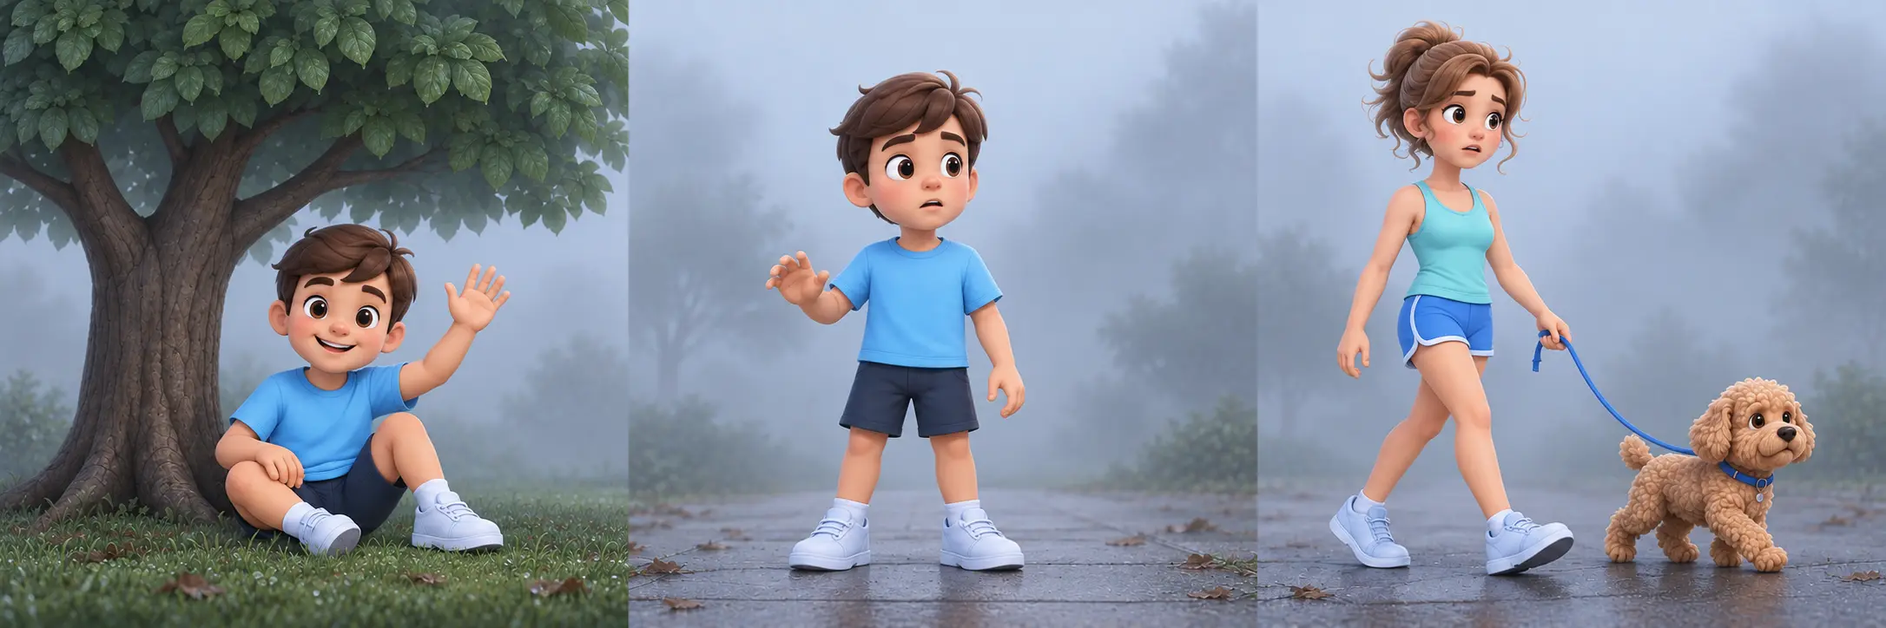
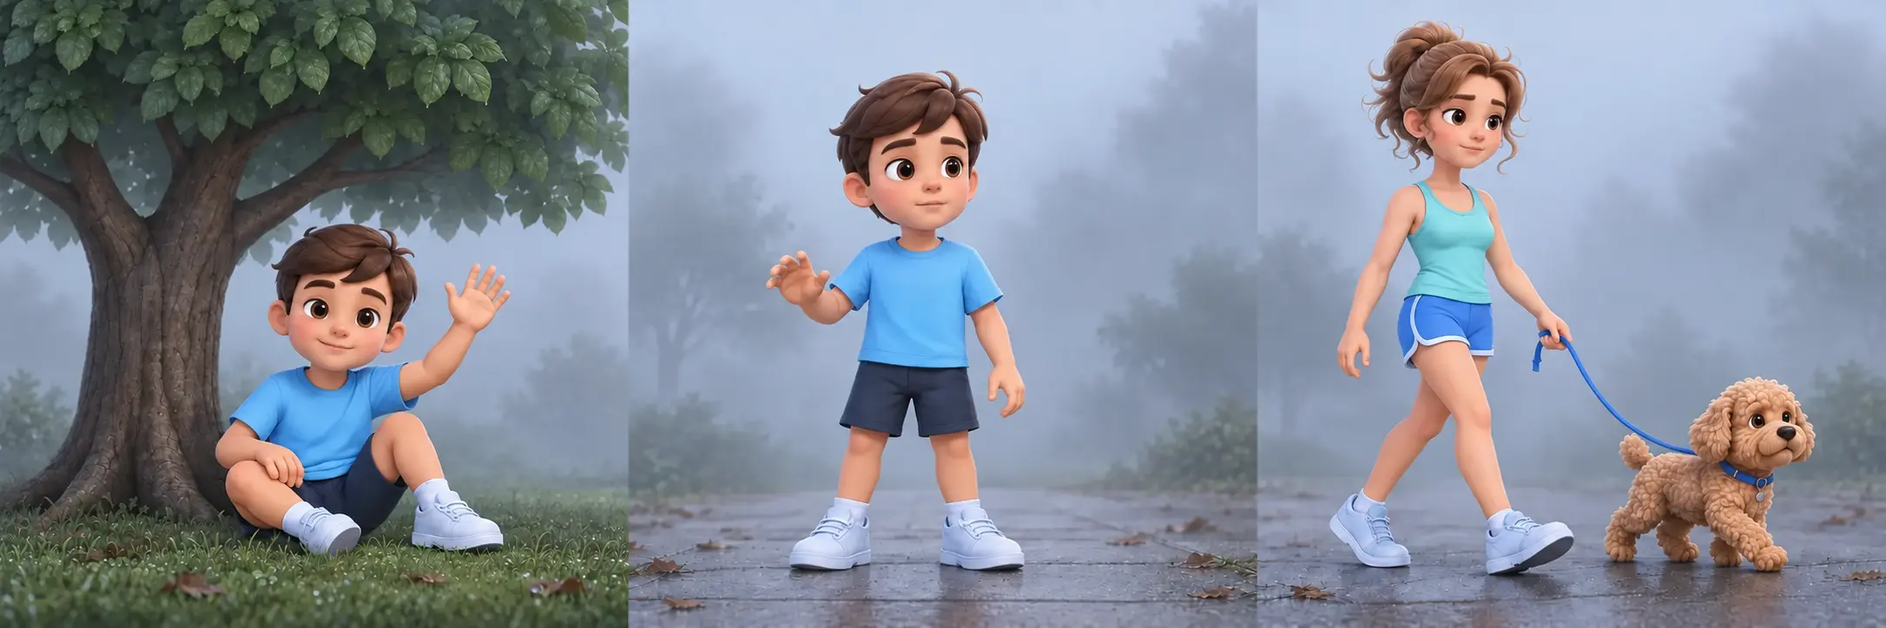
Refine calm weather scenes and Gross Meter layout
Use calm, neutral expressions for fog and cloudy weather while preserving the established people and scene proportions. Restructure the Gross Meter to match the supplied reference across desktop and phone layouts without removing its graph, forecast ranges, slider, legend or current-condition footer.

diff --git a/public/weather-fusion/dewpoint-meter.css b/public/weather-fusion/dewpoint-meter.css
@@ -1,14 +1,14 @@
 .dewpoint-gross-meter{margin:0 auto 24px;padding:14px;width:100%;max-width:100%;min-width:0;box-sizing:border-box;text-align:left;border:1px solid #58c7f16b;border-radius:26px;overflow:hidden;color:#f7fcff}
-.gross-summary{display:grid;grid-template-columns:minmax(210px,.9fr) minmax(190px,.72fr) minmax(260px,1.35fr);grid-template-areas:"intro now callout" "intro scale scale";gap:10px 22px;align-items:center;padding:10px 12px 14px;border-bottom:1px solid #55c1ec42}
-.gross-intro{grid-area:intro;align-self:stretch;padding-right:22px;border-right:1px solid #70cef069;display:flex;flex-direction:column;justify-content:center}.gross-eyebrow{margin:0;color:#fff;line-height:.95;letter-spacing:-.04em;text-align:left}.gross-eyebrow strong{display:block;font-size:clamp(31px,4vw,48px);font-weight:850}.gross-eyebrow span{display:block;margin-top:8px;font-size:clamp(17px,2vw,24px);font-weight:800;letter-spacing:-.02em;color:#68d8ff}.gross-note{font-size:13px;line-height:1.55;color:#bfe6f7;margin:18px 0 0;max-width:34ch}
-.gross-now{grid-area:now;display:flex;align-items:center;justify-content:center;gap:12px;min-width:0}.gross-drop{width:54px;height:64px;overflow:visible;flex:0 0 auto;fill:#63ddff;filter:drop-shadow(0 6px 10px #1dc6ff38)}.gross-drop path+path{fill:none;stroke:#63ddff;stroke-width:5;stroke-linecap:round}.gross-now>span{min-width:0}.gross-number{display:block;font-size:clamp(48px,6vw,72px);line-height:.9;letter-spacing:-3px;font-weight:700;color:#84e4ff;font-variant-numeric:tabular-nums}.gross-now-label{display:block;margin-top:8px;font-size:14px;line-height:1.2;font-weight:700;color:#66d8ff;white-space:nowrap}
+.gross-summary{display:grid;grid-template-columns:minmax(260px,.92fr) minmax(150px,.58fr) minmax(300px,1.28fr);grid-template-areas:"intro now callout" "intro scale scale";gap:8px 24px;align-items:center;padding:8px 12px 14px;border-bottom:1px solid #55c1ec42}
+.gross-intro{grid-area:intro;align-self:stretch;display:grid;grid-template-columns:minmax(0,1fr) 76px;gap:10px;align-items:center;padding-right:22px;border-right:1px solid #70cef069}.gross-intro-copy{min-width:0}.gross-eyebrow{margin:0;color:#fff;line-height:.95;letter-spacing:-.04em;text-align:left}.gross-eyebrow strong{display:block;font-size:clamp(31px,4vw,48px);font-weight:850}.gross-eyebrow span{display:block;margin-top:8px;font-size:clamp(17px,2vw,24px);font-weight:800;letter-spacing:-.02em;color:#68d8ff}.gross-note{font-size:13px;line-height:1.5;color:#bfe6f7;margin:18px 0 0;max-width:28ch}
+.gross-now{grid-area:now;display:flex;flex-direction:column;align-items:flex-start;justify-content:center;min-width:0}.gross-drop{width:68px;height:82px;overflow:visible;fill:#63ddff;filter:drop-shadow(0 6px 10px #1dc6ff38)}.gross-drop path+path{fill:none;stroke:#63ddff;stroke-width:5;stroke-linecap:round}.gross-number{display:block;font-size:clamp(48px,6vw,72px);line-height:.9;letter-spacing:-3px;font-weight:700;color:#84e4ff;font-variant-numeric:tabular-nums}.gross-now-label{display:block;margin-top:8px;font-size:14px;line-height:1.2;font-weight:700;color:#66d8ff;white-space:nowrap}
 .gross-callout{grid-area:callout;text-align:center;min-width:0}.gross-pill{display:inline-block;min-width:150px;font-size:15px;font-weight:800;letter-spacing:2px;padding:10px 18px;border:1px solid #a8bbff70;background:linear-gradient(145deg,#7770be52,#6b6dac3b);border-radius:999px;color:#f5f4ff;box-shadow:inset 0 1px 7px #dcd7ff21}.gross-nope,.gross-nogo{background:linear-gradient(145deg,#8c6cbc66,#6b69a94d);border-color:#c5baff80}.gross-verdict{font-weight:750;font-size:17px;line-height:1.3;color:#fff;margin:12px auto 0;max-width:34ch}
-.gross-current-scale{grid-area:scale;min-width:0;padding-top:3px}.gross-current-track{height:14px;border-radius:999px;background:linear-gradient(90deg,#12d7ac 0%,#59d59b 18%,#e5d35f 44%,#ffad58 69%,#f36d83 83%,#d653c2 100%);position:relative;box-shadow:inset 0 1px 3px #00283e66}.gross-current-track i{position:absolute;left:var(--gross-position);top:50%;width:22px;height:22px;border-radius:50%;background:#fff;transform:translate(-50%,-50%);box-shadow:0 2px 7px #001b32a8}.gross-current-labels{display:grid;grid-template-columns:repeat(4,1fr);margin-top:7px;color:#73ddff;text-align:center}.gross-current-labels span{font-size:11px;font-weight:700;line-height:1.2}.gross-current-labels b{display:block;font-size:12px;color:#82dcfb}
-.gross-explore{margin-top:12px;padding:12px 13px 10px;border:1px solid #48bbed42;border-radius:18px;background:#042e542e}.gross-toolbar{display:flex;align-items:center;justify-content:space-between;gap:12px}.gross-toolbar>span{font-size:16px;font-weight:800;color:#fff;white-space:nowrap}.gross-periods{display:grid;grid-template-columns:repeat(4,minmax(66px,1fr));padding:2px;border:1px solid #2faee44f;border-radius:12px;overflow:hidden;flex:1;max-width:650px}.gross-periods button{padding:8px 10px;min-height:36px;border:0;border-right:1px solid #2faee43c;border-radius:10px;background:transparent;color:#c0e8f8;font-size:12px;cursor:pointer;white-space:nowrap}.gross-periods button:last-child{border-right:0}.gross-periods button.selected{background:linear-gradient(180deg,#1196d37f,#0c70aa70);color:#fff;box-shadow:inset 0 1px 3px #61d9ff35}.gross-periods button:focus-visible{outline:2px solid #c7efff;outline-offset:-2px}
-.gross-coverage{font-size:10px;color:#a8d9ef;text-align:right;margin:5px 2px 9px;line-height:1.4}.gross-forecast-layout{display:grid;grid-template-columns:minmax(190px,.35fr) minmax(0,1fr);gap:15px;align-items:stretch}.gross-readout{padding:10px 14px 8px;border-right:1px solid #54bde847;display:flex;flex-direction:column;justify-content:center}.gross-selection{display:grid;grid-template-columns:auto 1fr;grid-template-rows:auto auto;column-gap:12px;text-align:left;min-height:76px}.gross-selected-value{grid-row:1/3;align-self:center;font-size:38px;letter-spacing:-1px;color:#fff;min-width:62px}.gross-selected-time{align-self:end;font-size:12px;line-height:1.45;color:#d9eff9}.gross-selected-label{font-size:12px;line-height:1.45;color:#b8e3f5}.gross-scroll-hint{font-size:11px;color:#b8dff0;text-align:left;margin:10px 0 0;padding-top:9px;border-top:1px solid #42b2e336;line-height:1.45}
+.gross-current-scale{grid-area:scale;min-width:0;padding-top:3px}.gross-current-track{height:14px;border-radius:999px;background:linear-gradient(90deg,#12d7ac 0%,#59d59b 18%,#e5d35f 44%,#ffad58 69%,#f36d83 83%,#d653c2 100%);position:relative;box-shadow:inset 0 1px 3px #00283e66}.gross-current-track::after{content:"";position:absolute;inset:0;background:linear-gradient(90deg,transparent 24.8%,#0b5e6ba0 25% 25.25%,transparent 25.4% 49.8%,#0b5e6ba0 50% 50.25%,transparent 50.4% 74.8%,#0b5e6ba0 75% 75.25%,transparent 75.4%);border-radius:inherit}.gross-current-track i{position:absolute;z-index:1;left:var(--gross-position);top:50%;width:22px;height:22px;border-radius:50%;background:#fff;transform:translate(-50%,-50%);box-shadow:0 2px 7px #001b32a8}.gross-current-labels{display:grid;grid-template-columns:repeat(4,1fr);margin-top:7px;color:#73ddff;text-align:center}.gross-current-labels span{font-size:11px;font-weight:700;line-height:1.2}.gross-current-labels b{display:block;font-size:12px;color:#82dcfb}
+.gross-explore{margin-top:12px;padding:12px 13px 10px;border:1px solid #48bbed42;border-radius:18px;background:#042e542e}.gross-toolbar{display:grid;grid-template-columns:minmax(170px,.55fr) minmax(360px,1.1fr) minmax(135px,.4fr);align-items:center;gap:12px;margin-bottom:10px}.gross-toolbar>span{font-size:16px;font-weight:800;color:#fff;white-space:nowrap}.gross-periods{display:grid;grid-template-columns:repeat(4,minmax(66px,1fr));padding:2px;border:1px solid #2faee44f;border-radius:12px;overflow:hidden}.gross-periods button{padding:8px 10px;min-height:36px;border:0;border-right:1px solid #2faee43c;border-radius:10px;background:transparent;color:#c0e8f8;font-size:12px;cursor:pointer;white-space:nowrap}.gross-periods button:last-child{border-right:0}.gross-periods button.selected{background:linear-gradient(180deg,#1196d37f,#0c70aa70);color:#fff;box-shadow:inset 0 1px 3px #61d9ff35}.gross-periods button:focus-visible{outline:2px solid #c7efff;outline-offset:-2px}
+.gross-coverage{font-size:10px;color:#a8d9ef;text-align:center;margin:0;line-height:1.4}.gross-forecast-layout{display:grid;grid-template-columns:minmax(220px,.34fr) minmax(0,1fr);gap:15px;align-items:stretch}.gross-readout{padding:10px 14px 8px;border-right:1px solid #54bde847;display:flex;flex-direction:column;justify-content:center}.gross-selection{display:flex;flex-direction:column;text-align:left;min-height:76px}.gross-selected-value{font-size:38px;line-height:1;letter-spacing:-1px;color:#fff;min-width:62px}.gross-selected-time{margin-top:6px;font-size:12px;line-height:1.45;font-weight:700;color:#d9eff9}.gross-selected-label{font-size:12px;line-height:1.45;color:#b8e3f5}.gross-scroll-hint{font-size:11px;color:#b8dff0;text-align:left;margin:10px 0 0;padding-top:9px;border-top:1px solid #42b2e336;line-height:1.45}
 .gross-scroll{width:100%;max-width:100%;overflow:hidden;border:1px solid #46b7e742;border-radius:15px;background:#082f50d9;min-width:0}.gross-chart{display:block;width:100%;max-width:100%;max-height:none;margin:0;touch-action:pan-y}.gross-scroll:focus-visible{outline:2px solid #c7efff}.gross-band{opacity:.30}.band-dry{fill:#449bcc}.band-nice{fill:#33b99b}.band-humid{fill:#e5c557}.band-gross{fill:#f49b46}.band-nogo{fill:#de80a0}.band-nope{fill:#f35298}.gross-threshold{stroke:#dcecff6b;stroke-width:1;stroke-dasharray:4 5}.gross-day-line{stroke:#c8e4ff20;stroke-width:1}.gross-line-shadow{fill:none;stroke:#4ca8e8;stroke-opacity:.35;stroke-width:8;stroke-linecap:round;stroke-linejoin:round}.gross-line{fill:none;stroke:#f0faff;stroke-width:2.8;stroke-linecap:round;stroke-linejoin:round}.gross-dot{fill:#e5f7ff;stroke:#168bc0;stroke-width:1}.gross-x,.gross-y{fill:#d5effc;font-size:11px;font-family:inherit}.gross-cursor{stroke:#fff9;stroke-width:1;stroke-dasharray:4 4}.gross-selected{fill:white;stroke:#55d6ff;stroke-width:2.5}
 .gross-slider-label{display:block;font-size:11px;color:#c9e5f2;margin:10px 0 1px}#gross-scrubber{display:block;width:100%;height:28px;accent-color:#7ddfff;margin:0;cursor:ew-resize}.gross-scale{display:grid;grid-template-columns:repeat(6,minmax(0,1fr));gap:8px;margin:5px 0;text-align:center}.gross-scale span{border-top:4px solid;padding-top:5px;font-size:9px;line-height:1.2;color:#cce9f5}.gross-scale span:nth-child(1){border-color:#37cfff}.gross-scale span:nth-child(2){border-color:#20d39c}.gross-scale span:nth-child(3){border-color:#e5cf54}.gross-scale span:nth-child(4){border-color:#ff9a4b}.gross-scale span:nth-child(5){border-color:#ec5f93}.gross-scale span:nth-child(6){border-color:#d852c2}.gross-worst,.gross-empty{font-size:10px;line-height:1.45;color:#b9e0f1;text-align:left;margin:8px 0 0}
 body[data-sky="night"] .gross-explore,body[data-sky="night"] .gross-scroll{background:#041f38d9}
-@media(max-width:760px){.dewpoint-gross-meter{padding:10px}.gross-summary{grid-template-columns:1fr 1fr;grid-template-areas:"intro intro" "now callout" "scale scale";gap:10px 8px;padding:4px 4px 11px}.gross-intro{padding:0 0 9px;border-right:0;border-bottom:1px solid #70cef047;display:grid;grid-template-columns:minmax(0,.8fr) minmax(0,1.2fr);gap:12px;align-items:center}.gross-eyebrow strong{font-size:28px}.gross-eyebrow span{font-size:16px;margin-top:4px}.gross-note{font-size:10px;line-height:1.4;margin:0;max-width:none}.gross-now{gap:5px;justify-content:flex-start;padding-left:4px}.gross-drop{width:36px;height:46px}.gross-number{font-size:44px}.gross-now-label{font-size:10px;margin-top:4px;white-space:normal}.gross-callout{text-align:right}.gross-pill{min-width:0;font-size:10px;letter-spacing:1.2px;padding:7px 11px}.gross-verdict{font-size:11px;line-height:1.3;margin-top:6px}.gross-current-track{height:10px}.gross-current-track i{width:17px;height:17px}.gross-current-labels{margin-top:5px}.gross-current-labels span,.gross-current-labels b{font-size:8px}.gross-explore{margin-top:8px;padding:9px 7px 7px;border-radius:14px}.gross-toolbar{display:block}.gross-toolbar>span{display:block;font-size:13px;margin:0 2px 7px}.gross-periods{width:100%;max-width:none;grid-template-columns:repeat(4,minmax(0,1fr))}.gross-periods button{min-height:32px;padding:6px 2px;font-size:10px}.gross-coverage{text-align:left;font-size:8px;margin:5px 2px 7px}.gross-forecast-layout{grid-template-columns:1fr;gap:6px}.gross-readout{padding:5px 6px;border-right:0;border-bottom:1px solid #54bde83a}.gross-selection{min-height:52px}.gross-selected-value{font-size:27px;min-width:46px}.gross-selected-time,.gross-selected-label{font-size:9px}.gross-scroll-hint{font-size:9px;margin:4px 0 0;padding-top:4px}.gross-scroll{border-radius:11px}.gross-slider-label{font-size:9px;margin-top:6px}#gross-scrubber{height:24px}.gross-scale{gap:4px}.gross-scale span{font-size:7px;padding-top:3px;border-top-width:3px}.gross-worst,.gross-empty{font-size:8px;margin-top:5px}}
-@media(max-width:359px){.gross-eyebrow strong{font-size:25px}.gross-note{font-size:9px}.gross-now{padding-left:0}.gross-drop{width:31px}.gross-number{font-size:40px}.gross-periods button{font-size:9px}.gross-scale span{font-size:6px}}
+@media(max-width:760px){.dewpoint-gross-meter{padding:10px}.gross-summary{grid-template-columns:1fr 1fr;grid-template-areas:"intro intro" "now callout" "scale scale";gap:10px 8px;padding:4px 4px 11px}.gross-intro{padding:0 0 9px;border-right:0;border-bottom:1px solid #70cef047;grid-template-columns:minmax(0,1fr) 52px;gap:10px}.gross-eyebrow strong{font-size:28px}.gross-eyebrow span{font-size:16px;margin-top:4px}.gross-note{font-size:10px;line-height:1.4;margin:8px 0 0;max-width:33ch}.gross-drop{width:46px;height:56px}.gross-now{justify-content:center;padding-left:4px}.gross-number{font-size:44px}.gross-now-label{font-size:10px;margin-top:4px;white-space:normal}.gross-callout{text-align:right}.gross-pill{min-width:0;font-size:10px;letter-spacing:1.2px;padding:7px 11px}.gross-verdict{font-size:11px;line-height:1.3;margin-top:6px}.gross-current-track{height:10px}.gross-current-track i{width:17px;height:17px}.gross-current-labels{margin-top:5px}.gross-current-labels span,.gross-current-labels b{font-size:8px}.gross-explore{margin-top:8px;padding:9px 7px 7px;border-radius:14px}.gross-toolbar{grid-template-columns:1fr auto;gap:7px;margin-bottom:7px}.gross-toolbar>span{font-size:13px;margin-left:2px}.gross-coverage{text-align:right;font-size:8px;max-width:18ch}.gross-periods{grid-column:1/3;grid-row:2;width:100%;grid-template-columns:repeat(4,minmax(0,1fr))}.gross-periods button{min-height:32px;padding:6px 2px;font-size:10px}.gross-forecast-layout{grid-template-columns:1fr;gap:6px}.gross-readout{padding:5px 6px;border-right:0;border-bottom:1px solid #54bde83a}.gross-selection{min-height:0;display:grid;grid-template-columns:auto 1fr;grid-template-rows:auto auto;column-gap:9px}.gross-selected-value{grid-row:1/3;align-self:center;font-size:27px;min-width:46px}.gross-selected-time{align-self:end;margin:0;font-size:9px}.gross-selected-label{font-size:9px}.gross-scroll-hint{font-size:9px;margin:4px 0 0;padding-top:4px}.gross-scroll{border-radius:11px}.gross-slider-label{font-size:9px;margin-top:6px}#gross-scrubber{height:24px}.gross-scale{gap:4px}.gross-scale span{font-size:7px;padding-top:3px;border-top-width:3px}.gross-worst,.gross-empty{font-size:8px;margin-top:5px}}
+@media(max-width:359px){.gross-eyebrow strong{font-size:25px}.gross-note{font-size:9px}.gross-now{padding-left:0}.gross-drop{width:41px}.gross-number{font-size:40px}.gross-periods button{font-size:9px}.gross-scale span{font-size:6px}}
 @media(prefers-reduced-motion:reduce){.gross-scroll{scroll-behavior:auto}}

diff --git a/public/weather-fusion/exposure-scene.js b/public/weather-fusion/exposure-scene.js
@@ -117,8 +117,8 @@ function shadeTree(){
  </g>`;
 }
 
-export function exposureScene(sun,daylight=true,condition='Clear',feels=null,context={}){
- const illustrated=referenceScene(sun?1:0,daylight,condition,feels,context);
+export function exposureScene(sun,daylight=true,condition='Clear',feels=null){
+ const illustrated=referenceScene(sun?1:0,daylight,condition,feels);
  if(illustrated)return illustrated;
  const weather=weatherState(condition),id=sun?'direct-scene':'shade-scene',p=skyPalette(weather,daylight);
  const defs=sharedDefs(id,p),weatherClass=sun?'person-weather':'shade-weather';
@@ -131,27 +131,15 @@ export function exposureScene(sun,daylight=true,condition='Clear',feels=null,con
  return `<svg viewBox="0 0 300 360" preserveAspectRatio="xMidYMid slice" role="img" aria-label="${label}" data-outfit="${clothingForFeels(feels)}">${defs}${background}${icon}${art}</svg>`;
 }
 
-export function precipitationActivity(condition='',context={}){
- const weather=weatherState(condition),amount=context.precipitation,pop=context.pop;
- if(!['rain','storm'].includes(weather.kind))return 'none';
- if(!weather.chance)return 'active';
- if(finite(amount)&&amount>=.05)return 'active';
- if(finite(pop)&&pop>=60)return 'active';
- return 'possible';
-}
-
-export function comfortSceneState(daylight=true,condition='Clear',feels=null,context={}){
- const kind=weatherState(condition).kind,precipitation=precipitationActivity(condition,context);
+export function comfortSceneState(daylight=true,condition='Clear',feels=null){
+ const kind=weatherState(condition).kind;
+ if(['rain','storm'].includes(kind))return {key:'rain',asset:'comfort-reference-scenes-rain.webp'};
  if(kind==='snow'||(finite(feels)&&feels<40))return {key:'cold',asset:'comfort-reference-scenes-cold.webp'};
- if(precipitation==='active')return {key:'rain',asset:'comfort-reference-scenes-rain.webp'};
- if(kind==='fog')return {key:'fog',asset:'comfort-reference-scenes-fog.webp'};
- if(!daylight)return {key:'dawn',asset:'comfort-reference-scenes-dawn.webp'};
- if(precipitation==='possible'||kind==='cloudy')return {key:'watch',asset:'comfort-reference-scenes-watch.webp'};
- if(finite(feels)&&feels>=88&&['clear','partly-cloudy'].includes(kind))return {key:'hot',asset:'comfort-reference-scenes-hot.webp'};
+ if(daylight&&finite(feels)&&feels>=88)return {key:'hot',asset:'comfort-reference-scenes-hot.webp'};
  return {key:'normal',asset:'comfort-reference-scenes.webp'};
 }
 
-const comfortSceneAssets=['comfort-reference-scenes.webp','comfort-reference-scenes-hot.webp','comfort-reference-scenes-rain.webp','comfort-reference-scenes-cold.webp','comfort-reference-scenes-fog.webp','comfort-reference-scenes-watch.webp','comfort-reference-scenes-dawn.webp'];
+const comfortSceneAssets=['comfort-reference-scenes.webp','comfort-reference-scenes-hot.webp','comfort-reference-scenes-rain.webp','comfort-reference-scenes-cold.webp'];
 export function preloadComfortScenes(){
  if(typeof Image==='undefined')return false;
  for(const asset of comfortSceneAssets){const image=new Image();image.decoding='async';image.src=`/weather-fusion/${asset}`;}
@@ -164,16 +152,16 @@ if(typeof window!=='undefined'){
 
 // Text and readings remain HTML. The selected sprite changes with the same
 // current/hourly condition and feels-like value used everywhere else.
-export function referenceScene(panel,daylight=true,condition='Clear',feels=null,context={}){
+export function referenceScene(panel,daylight=true,condition='Clear',feels=null){
  if(!finite(feels))return null;
  const weather=weatherState(condition),id=`reference-scene-${panel}`;
- const scene=comfortSceneState(daylight,condition,feels,context);
+ const scene=comfortSceneState(daylight,condition,feels);
  const sky=skyPalette(weather,daylight);
  const subject=panel===0?'A boy sitting beneath a shade tree':panel===1?'A boy outdoors':'A woman walking a light brown toy poodle';
  const normalClothing={hot:'light hot-weather clothing',warm:'light warm-weather clothing',mild:'everyday mild-weather clothing',cool:'a jacket and long pants',cold:'a coat, scarf and warm hat'}[clothingForFeels(feels)];
- const action={hot:'visibly reacting to extreme heat in light hot-weather clothing',rain:'using rain gear and an umbrella in steady rain',cold:'wearing a coat, scarf and warm hat for cold weather',fog:'clearly visible in diffuse fog with no direct sunlight',watch:'looking at a cloudy sky because rain is possible but not occurring',dawn:'clearly visible outdoors before sunrise with no direct sunlight',normal:`outdoors in ${normalClothing}`}[scene.key];
+ const action={hot:'visibly reacting to extreme heat in light hot-weather clothing',rain:'using rain gear and an umbrella in steady rain',cold:'wearing a coat, scarf and warm hat for cold weather',normal:`outdoors in ${normalClothing}`}[scene.key];
  const label=`${subject}, ${action}`;
- const tint=null;
+ const tint=!daylight?'#061536':scene.key==='normal'&&['rain','storm','cloudy','fog','snow'].includes(weather.kind)?'#42576d':null;
  const symbol=scene.key!=='normal'||panel===0?'':daylight&&weather.kind==='clear'
   ?sunGlyph(id,248,57,.64)
   :`<g transform="translate(214 20) scale(1.5)">${weatherShapes(condition,daylight)}</g>`;

diff --git a/public/weather-fusion/dewpoint-meter.js b/public/weather-fusion/dewpoint-meter.js
@@ -29,7 +29,7 @@ export function dewpointPoints(forecast,now,hours=240){
 }
 function styles(){
  if(document.getElementById('weather-nourie-dewpoint-meter-css'))return;
- const l=document.createElement('link');l.id='weather-nourie-dewpoint-meter-css';l.rel='stylesheet';l.href='/weather-fusion/dewpoint-meter.css?v=scenario-weather-v28';
+ const l=document.createElement('link');l.id='weather-nourie-dewpoint-meter-css';l.rel='stylesheet';l.href='/weather-fusion/dewpoint-meter.css?v=scenario-weather-v29';
  l.addEventListener('load',()=>{if(latest)renderDewpointMeter(latest,lastNow);},{once:true});document.head.append(l);
 }
 const hourText=(t,z)=>new Intl.DateTimeFormat('en-US',{timeZone:z,hour:'numeric',minute:'2-digit'}).format(new Date(t));
@@ -87,13 +87,12 @@ export function renderDewpointMeter(forecast,now=Date.now()){
  const humidity=forecast.current.humidity,air=forecast.current.temperature,feels=forecast.comfort?.outdoors;
  panel.dataset.level=level.key;panel.dataset.hours=String(horizon);
  panel.innerHTML=`<div class="gross-summary">
-   <div class="gross-intro"><div class="gross-eyebrow" id="gross-title"><strong>Dew Point</strong><span>Gross Meter</span></div><p class="gross-note">${esc(level.note)}</p></div>
-   <div class="gross-now"><svg class="gross-drop" viewBox="0 0 64 76" aria-hidden="true"><path d="M32 3C23 20 10 36 10 51a22 22 0 0 0 44 0C54 36 41 20 32 3Z"/><path d="M53 26h8M53 38h8M53 50h8"/></svg><span><strong class="gross-number">${finite(dp)?Math.round(dp)+'°':'—'}</strong><small class="gross-now-label">Current dew point</small></span></div>
+   <div class="gross-intro"><div class="gross-intro-copy"><div class="gross-eyebrow" id="gross-title"><strong>Dew Point</strong><span>Gross Meter</span></div><p class="gross-note">${esc(level.note)}</p></div><svg class="gross-drop" viewBox="0 0 64 76" aria-hidden="true"><path d="M32 3C23 20 10 36 10 51a22 22 0 0 0 44 0C54 36 41 20 32 3Z"/><path d="M53 26h8M53 38h8M53 50h8"/></svg></div>
+   <div class="gross-now"><strong class="gross-number">${finite(dp)?Math.round(dp)+'°':'—'}</strong><small class="gross-now-label">Current dew point</small></div>
    <div class="gross-callout"><span class="gross-pill gross-${level.key}">${esc(pill)}</span><p class="gross-verdict">${esc(level.label)}</p></div>
    <div class="gross-current-scale" style="--gross-position:${marker}%"><div class="gross-current-track"><i></i></div><div class="gross-current-labels"><span><b>50°</b>Dry</span><span><b>60°</b>Not bad</span><span><b>70°</b>Humid</span><span><b>75°</b>Gross</span></div></div>
   </div>
-  <div class="gross-explore"><div class="gross-toolbar"><span>Explore the forecast</span><div class="gross-periods" role="group" aria-label="Dew-point graph time range">${[[24,'24h'],[48,'48h'],[168,'7 days'],[240,'10 days']].map(([n,l])=>`<button type="button" data-gross-hours="${n}" aria-pressed="${horizon===n}" class="${horizon===n?'selected':''}">${l}</button>`).join('')}</div></div>
-   <p class="gross-coverage">${hoursAvailable>=24?`${Math.floor(hoursAvailable/24)} days ${hoursAvailable%24} hours of forecast available`:'Forecast coverage is limited'}${hoursAvailable<horizon?' · Missing hours stay blank.':''}</p>
+  <div class="gross-explore"><div class="gross-toolbar"><span>Explore the forecast</span><div class="gross-periods" role="group" aria-label="Dew-point graph time range">${[[24,'24h'],[48,'48h'],[168,'7 days'],[240,'10 days']].map(([n,l])=>`<button type="button" data-gross-hours="${n}" aria-pressed="${horizon===n}" class="${horizon===n?'selected':''}">${l}</button>`).join('')}</div><p class="gross-coverage">${hoursAvailable>=24?`${Math.floor(hoursAvailable/24)} days ${hoursAvailable%24} hours of forecast available`:'Forecast coverage is limited'}${hoursAvailable<horizon?' · Missing hours stay blank.':''}</p></div>
    <div class="gross-forecast-layout"><div class="gross-readout"><div class="gross-selection" aria-live="polite"><strong class="gross-selected-value">—</strong><span class="gross-selected-time"></span><span class="gross-selected-label"></span></div><p class="gross-scroll-hint">Full range shown · Tap the line or use the slider for details</p></div>
     <div class="gross-scroll" tabindex="0" role="region" aria-label="Full-range dew-point forecast chart">${built.html}</div></div>
    <label class="gross-slider-label" for="gross-scrubber">Explore each forecast hour</label><input id="gross-scrubber" type="range" min="0" max="${Math.max(0,pts.length-1)}" value="0" ${pts.length?'':'disabled'} aria-label="Forecast dew-point hour"/>

diff --git a/test/weatherFusionReferenceCards.test.js b/test/weatherFusionReferenceCards.test.js
@@ -1,6 +1,6 @@
 import test from 'node:test';
 import assert from 'node:assert/strict';
-import {comfortSceneState,precipitationActivity,referenceScene} from '../public/weather-fusion/exposure-scene.js';
+import {comfortSceneState,referenceScene} from '../public/weather-fusion/exposure-scene.js';
 import {pavementHTML,pavementEstimate} from '../public/weather-fusion/pavement.js';
 
 test('illustrated weather stays synchronized across outdoor and pet scenes',()=>{
@@ -8,7 +8,7 @@ test('illustrated weather stays synchronized across outdoor and pet scenes',()=>
   assert.match(referenceScene(panel,true,'Clear',88),/data-scene="hot"/);
   assert.match(referenceScene(panel,true,'Clear',88),/comfort-reference-scenes-hot\.webp/);
   assert.doesNotMatch(referenceScene(panel,false,'Clear',88),/class="sky-sun"/);
-  assert.match(referenceScene(panel,false,'Clear',88),/comfort-reference-scenes-dawn\.webp/);
+  assert.match(referenceScene(panel,false,'Clear',88),/class="sky-moon"/);
   assert.match(referenceScene(panel,true,'Rain',88),/data-scene="rain"/);
   assert.match(referenceScene(panel,true,'Rain',88),/comfort-reference-scenes-rain\.webp/);
   assert.doesNotMatch(referenceScene(panel,true,'Rain',88),/class="sky-sun"/);
@@ -18,7 +18,7 @@ test('illustrated weather stays synchronized across outdoor and pet scenes',()=>
  assert.match(referenceScene(1,true,'Clear',30),/comfort-reference-scenes-cold\.webp/);
  assert.deepEqual(comfortSceneState(true,'Clear',95),{key:'hot',asset:'comfort-reference-scenes-hot.webp'});
  assert.deepEqual(comfortSceneState(true,'Thunderstorms',95),{key:'rain',asset:'comfort-reference-scenes-rain.webp'},'actual weather takes precedence over heat');
- assert.deepEqual(comfortSceneState(false,'Clear',95),{key:'dawn',asset:'comfort-reference-scenes-dawn.webp'},'night uses visible pre-sunrise art, never a daytime heat-sun scene');
+ assert.deepEqual(comfortSceneState(false,'Clear',95),{key:'normal',asset:'comfort-reference-scenes.webp'},'night never shows a daytime heat-sun scene');
  const html=pavementHTML({status:'unavailable',daylight:false},88,{forecast:true,condition:'Rain'});
  assert.match(html,/at the selected forecast hour/);
  assert.match(html,/data-scene="rain"/);
@@ -26,22 +26,6 @@ test('illustrated weather stays synchronized across outdoor and pet scenes',()=>
  const cold=pavementHTML({status:'unavailable',daylight:true},30,{condition:'Snow'});
  assert.match(cold,/data-scene="cold"/);
  assert.doesNotMatch(cold,/class="sky-sun"/);
-});
-
-test('scene policy distinguishes fog, low rain chance, active rain and pre-sunrise hours',()=>{
- assert.equal(precipitationActivity('Slight Chance Showers',{pop:20,precipitation:.01}),'possible');
- assert.equal(precipitationActivity('Chance Showers',{pop:70,precipitation:.08}),'active');
- assert.equal(precipitationActivity('Rain',{pop:20}),'active');
- assert.deepEqual(comfortSceneState(true,'Foggy',77,{pop:0}),{key:'fog',asset:'comfort-reference-scenes-fog.webp'});
- assert.deepEqual(comfortSceneState(true,'Slight Chance Thunderstorms',92,{pop:20}),{key:'watch',asset:'comfort-reference-scenes-watch.webp'});
- assert.deepEqual(comfortSceneState(true,'Slight Chance Thunderstorms',92,{pop:70}),{key:'rain',asset:'comfort-reference-scenes-rain.webp'});
- assert.deepEqual(comfortSceneState(false,'Clear',92,{pop:0}),{key:'dawn',asset:'comfort-reference-scenes-dawn.webp'});
-});
-
-test('active rain pauses pavement heat warnings',()=>{
- const result={status:'estimated',activePrecipitation:true,concrete:{value:110,high:140},asphalt:{value:118,high:145}};
- assert.equal(pavementHTML(result,92,{condition:'Rain'}).includes('Hot pavement possible'),false);
- assert.match(pavementHTML(result,92,{condition:'Rain'}),/Wet pavement · heat warning paused/);
 });
 
 test('forecast pavement uses the selected hour while freshness uses the actual update time',()=>{

diff --git a/public/weather-fusion/experience.js b/public/weather-fusion/experience.js
@@ -1,14 +1,14 @@
 import {todayForecastHTML} from './today-card.js?v=compact-weather-v21';
 import {FORECAST_CONFIDENCE_VERSION} from './forecast-confidence.js?v=weather-art-labels-v10';
 import {dailyUvHTML} from './daily-uv.js?v=weather-art-labels-v10';
-import {pavementEstimate,pavementHTML,pavementDetailsHTML} from './pavement.js?v=scenario-weather-v28';
+import {pavementEstimate,pavementHTML,pavementDetailsHTML} from './pavement.js?v=scenario-weather-v29';
 import {weatherState} from './weather-state.js';
 import {currentSample,forecastSample,peakComparisonHTML,sampleCaption} from './weather-display.js?v=compact-weather-v21';
 import {degrees,feelsAt,dailyFeels,forecastValue,peakFeelsHTML} from './hourly-feels.js?v=weather-art-labels-v10';
-import {pressureMb,stationPressureMb,pressureTrendText,sunShadeHTML} from './personal-details.js?v=scenario-weather-v28';
+import {pressureMb,stationPressureMb,pressureTrendText,sunShadeHTML} from './personal-details.js?v=scenario-weather-v29';
 import {comfortMode,comfortWindow,comfortNarrative,warmestTodayWindow} from './comfort-outlook.js?v=weather-art-labels-v10';
 import {dailyDisplay,temperatureBar,thermalComfort,finite,solarElevation} from './weather-math.js?v=weather-art-labels-v10';
-import {resetDewpointMeter} from './dewpoint-meter.js?v=scenario-weather-v28';
+import {resetDewpointMeter} from './dewpoint-meter.js?v=scenario-weather-v29';
 const $=id=>document.getElementById(id);
 const esc=s=>String(s??'').replace(/[&<>"']/g,c=>({'&':'&amp;','<':'&lt;','>':'&gt;','"':'&quot;',"'":'&#39;'}[c]));
 const number=(n,d=0)=>finite(n)?n.toFixed(d):'—';

diff --git a/public/weather-fusion/app.js b/public/weather-fusion/app.js
@@ -5,12 +5,12 @@ import {weatherIcon,renderHourlyWeather,currentSample,heroFeelsHTML} from './wea
 import {dayGraphHTML,installDayGraph} from './day-graph.js?v=weather-art-labels-v10';
 import {degrees,feelsAt} from './hourly-feels.js?v=weather-art-labels-v10';
 import {createFramePlayer} from './frame-player.js';
-import {renderComfort,selectComfortHour,renderDailyRows,renderMetricTiles,resetExperience,installExperience} from './experience.js?v=scenario-weather-v28';
+import {renderComfort,selectComfortHour,renderDailyRows,renderMetricTiles,resetExperience,installExperience} from './experience.js?v=scenario-weather-v29';
 import {dailyDisplay} from './weather-math.js?v=weather-art-labels-v10';
 import {currentHero} from './current-temperature.js?v=weather-art-labels-v10';
 import {renderBulletins} from './bulletins.js?v=weather-art-labels-v10';
-import {modelFreshnessText} from './personal-details.js?v=scenario-weather-v28';
-import {renderDewpointMeter} from './dewpoint-meter.js?v=scenario-weather-v28';
+import {modelFreshnessText} from './personal-details.js?v=scenario-weather-v29';
+import {renderDewpointMeter} from './dewpoint-meter.js?v=scenario-weather-v29';
 import {renderWeatherPanel} from './render-safety.js';
 /* Weather Nourie browser client. Forecast values never originate in AI prose. */
 const $ = (id) => document.getElementById(id);

diff --git a/test/weatherFusionForecastDetails.test.js b/test/weatherFusionForecastDetails.test.js
@@ -116,7 +116,7 @@ test('Gross Meter heading stays centered and bold without changing chart geometr
  assert.match(css,/#gross-title\{text-align:center;font-weight:800\}/);assert.ok(!/\.gross-(scroll|chart)\s*\{/.test(css));
 });
 test('changed assets are cache-busted and late briefing responses stay guarded',()=>{
- assert.match(html,/forecast-layout\.css\?v=weather-art-labels-v10/);assert.match(html,/app\.js\?v=scenario-weather-v28/);assert.match(html,/forecast-cards\.css\?v=unified-weather-v24/);assert.match(html,/scenario-layout\.css\?v=scenario-weather-v28/);
+ assert.match(html,/forecast-layout\.css\?v=weather-art-labels-v10/);assert.match(html,/app\.js\?v=scenario-weather-v29/);assert.match(html,/forecast-cards\.css\?v=unified-weather-v24/);assert.match(html,/scenario-layout\.css\?v=scenario-weather-v29/);
  assert.match(app,/dans-take\.js\?v=weather-art-labels-v10/);
  assert.match(app,/if \(id === generation && briefing\.signature === forecast\?\.signature\) renderBriefing\(briefing\)/);
 });

diff --git a/public/weather-fusion/index.html b/public/weather-fusion/index.html
@@ -14,8 +14,8 @@
   <link rel="stylesheet" href="/weather-fusion/hourly-feels.css?v=weather-art-labels-v10">
   <link rel="stylesheet" href="/weather-fusion/weather-repair.css?v=compact-weather-v21">
   <link rel="stylesheet" href="/weather-fusion/forecast-cards.css?v=unified-weather-v24">
-  <link rel="stylesheet" href="/weather-fusion/scenario-layout.css?v=scenario-weather-v28">
-  <script type="module" src="/weather-fusion/app.js?v=scenario-weather-v28"></script>
+  <link rel="stylesheet" href="/weather-fusion/scenario-layout.css?v=scenario-weather-v29">
+  <script type="module" src="/weather-fusion/app.js?v=scenario-weather-v29"></script>
 
 </head>
 <body data-sky="day">

diff --git a/public/weather-fusion/personal-details.js b/public/weather-fusion/personal-details.js
@@ -1,7 +1,7 @@
 import {weatherState} from './weather-state.js';
 import {thermalRiskHTML} from './thermal-risk.js?v=weather-art-labels-v10';
-import {forecastGrossLevel} from './dewpoint-meter.js?v=scenario-weather-v28';
-import {exposureScene} from './exposure-scene.js?v=scenario-weather-v28';
+import {forecastGrossLevel} from './dewpoint-meter.js?v=scenario-weather-v29';
+import {exposureScene} from './exposure-scene.js?v=scenario-weather-v29';
 import {outdoorExposure} from './outdoor-feels.js?v=clear-weather-daygraph-v3';
 import {solarElevation} from './weather-math.js?v=clear-weather-daygraph-v3';
 const finite=v=>typeof v==='number'&&Number.isFinite(v);

diff --git a/public/weather-fusion/pavement.js b/public/weather-fusion/pavement.js
@@ -1,5 +1,5 @@
 import {finite,solarElevation,thermalHumidity} from './weather-math.js?v=clear-weather-daygraph-v3';
-import {clothingForFeels,referenceScene,precipitationActivity} from './exposure-scene.js?v=scenario-weather-v28';
+import {clothingForFeels,referenceScene,precipitationActivity} from './exposure-scene.js?v=scenario-weather-v29';
 import {thermalRisk} from './thermal-risk.js?v=weather-art-labels-v10';
 import {weatherShapes} from './weather-display.js?v=compact-weather-v21';
 import {weatherState} from './weather-state.js';
